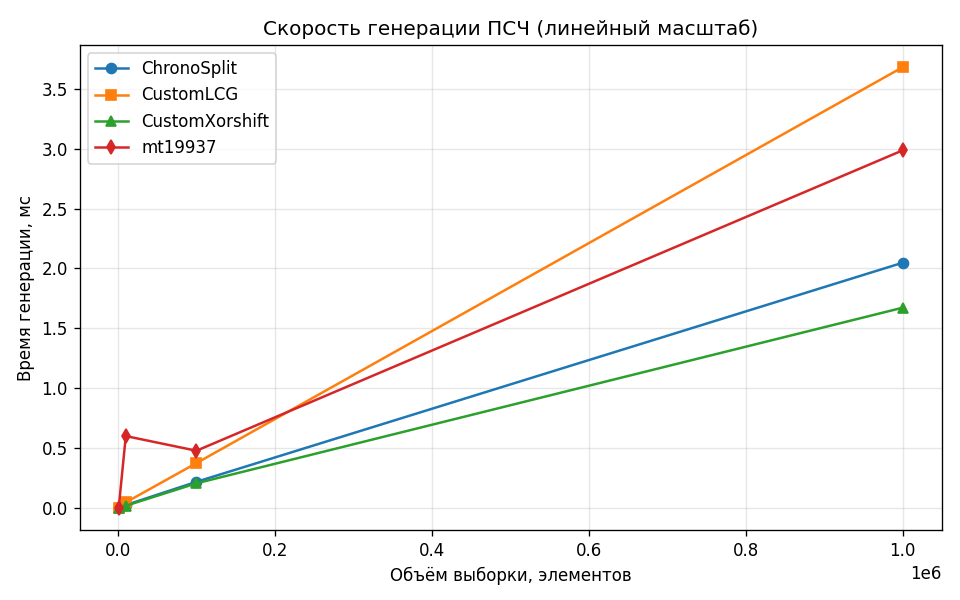
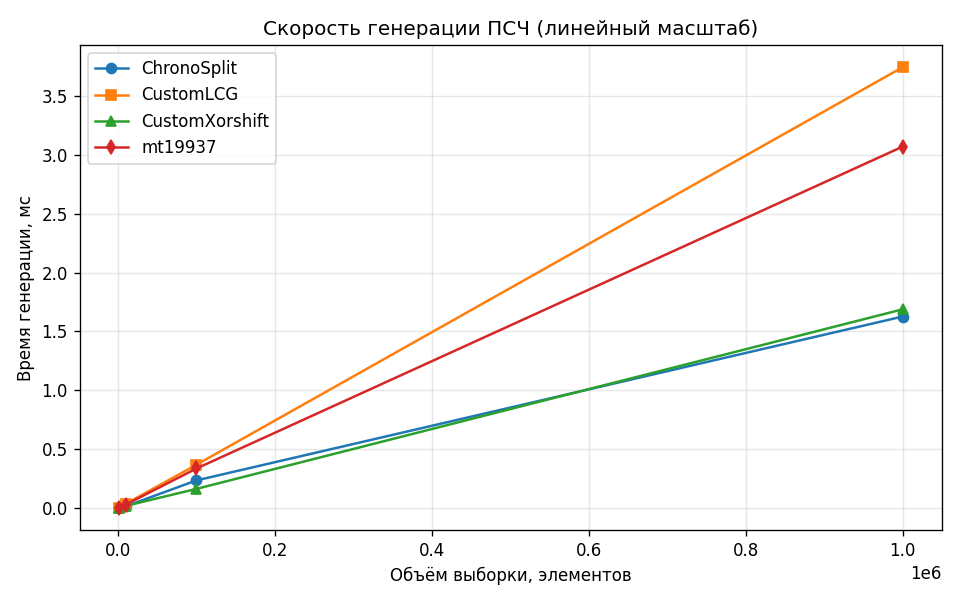
v1.02 finalniy final

diff --git a/main.cpp b/main.cpp
@@ -627,7 +627,7 @@ double measure_mt19937(uint64_t seed, long count, int repeats) {
  *
  * @param repeats сколько прогонов усреднить на каждый замер
  */
-void run_timing(int repeats = 10) {
+void run_timing(int repeats = 100) {
     const long sizes[] = {1000, 10000, 100000, 1000000};
     const int n_sizes = 4;
 

diff --git a/README.md b/README.md
@@ -1,114 +1,86 @@
-# Лабораторная работа: Алгоритмы сортировок
+# ЛР3 — Генераторы псевдослучайных чисел
 
-**Вариант 21** — массив авиарейсов, прибывающих в аэропорт.
+Лабораторная работа по дисциплине, посвящённой генерации и тестированию
+псевдослучайных чисел (ПСЧ). Реализованы **три собственных генератора ПСЧ**,
+проведена проверка выборок на равномерность (критерий χ²) и случайность
+(пять тестов NIST), а также измерена скорость генерации в сравнении со
+стандартным генератором языка `std::mt19937_64`.
 
-## Постановка задачи
+## Реализованные методы
 
-Реализовать на C++ три алгоритма сортировки массива объектов с
-многополевым сравнением, считать данные из CSV, замерить время работы на
-наборах разной размерности, сравнить с `std::sort` и построить графики.
+| Обозн. | Класс | Основа | Кратко |
+|--------|-------|--------|--------|
+| A | `ChronoSplit` | время + микшер splitmix64 | затравка из таймера в наносекундах, биты перемешиваются умножениями и сдвигами |
+| B | `CustomLCG` | линейный конгруэнтный генератор | `state = A·state + C mod 2⁶⁴`, наружу отдаются перемешанные старшие половины двух шагов |
+| C | `CustomXorshift` | xorshift128+ | состояние из двух 64-битных слов, период 2¹²⁸−1, собственные сдвиги a=23, b=17, c=26 |
 
-## Структура данных
+Все три генератора реализованы самостоятельно на C++ без использования
+стандартных библиотек ПСЧ (`std::mt19937_64` подключается только как эталон
+для сравнения скорости).
 
-Каждый рейс (`struct Flight`) описывается полями:
-- номер рейса (`flightNumber`),
-- авиакомпания (`airline`),
-- дата прилёта (`arrivalDate`, формат `YYYY-MM-DD`),
-- время прилёта по расписанию (`arrivalTime`, формат `HH:MM`),
-- число пассажиров на борту (`passengers`).
+## Что проверяется
 
-## Правила сравнения
+1. **Статистика выборок** — для каждой выборки считаются среднее, СКО и
+   коэффициент вариации; они сравниваются с теоретическими значениями для
+   равномерного распределения на `[0, RANGE)`.
+2. **Равномерность** — критерий χ² (диапазон делится на `BINS` интервалов,
+   статистика сравнивается с критическим значением при df = BINS−1).
+3. **Случайность** — пять тестов NIST SP 800-22: частотный (monobit), тест
+   серий (runs), блочный частотный (block frequency), тест пар бит (serial),
+   накопленные суммы (cumulative sums). p-value вычисляется через неполную
+   гамма-функцию / `erfc`.
+4. **Скорость** — замер времени генерации от 1 000 до 1 000 000 элементов
+   тремя методами и стандартным `std::mt19937_64`, построение графиков.
 
-Операторы `<`, `>`, `<=`, `>=` перегружены и реализованы через единый
-метод `compare`, который сравнивает поля в следующем приоритете:
+## Параметры эксперимента
 
-1. дата прилёта — по возрастанию,
-2. время прилёта — по возрастанию,
-3. название авиакомпании — по возрастанию (лексикографически),
-4. число пассажиров — **по убыванию**.
+Задаются константами в начале `main.cpp`:
 
-## Реализованные сортировки
-
-- **Сортировка пузырьком** (Bubble sort) с флагом ранней остановки.
-- **Шейкер** (Cocktail sort) — двунаправленный пузырёк.
-- **Быстрая сортировка** (Quick sort) — Hoare partition + median-of-three pivot.
-- **`std::sort`** из стандартной библиотеки (introsort) — для сравнения.
+| Параметр | Значение | Смысл |
+|----------|----------|-------|
+| `RANGE` | 10000 | диапазон значений `[0, RANGE)` (≥ 5000 по ТЗ) |
+| `N` | 1000 | элементов в одной выборке (≥ 1000 по ТЗ) |
+| `SAMPLES` | 20 | число выборок на метод (≥ 20 по ТЗ) |
+| `BINS` | 100 | число интервалов для χ² |
 
 ## Сборка и запуск
 
-Требуется g++ с поддержкой C++20 (тестировалось на MinGW-w64 / UCRT64 16.1.0).
+Требуется компилятор с поддержкой C++17.
 
 ```bash
-.\build.bat
-.\sort_lab.exe
+g++ -O2 -std=c++17 main.cpp -o prng
+./prng
 ```
 
-Программа генерирует датасеты размерности 100, 200, 500, 1000, 2000, 5000,
-10000, 20000, 50000, 100000, сохраняет их в `data/dataset_<n>.csv`,
-читает обратно и замеряет время каждой сортировки усреднением по 3
-прогонам. Результаты пишутся в `data/timings.csv`.
+При запуске программа:
+- печатает статистику и значение χ² по каждой из 20 выборок для всех трёх методов;
+- печатает сводную таблицу по пунктам 3–4 и теоретические ориентиры;
+- прогоняет пять тестов NIST для каждого метода (вердикт PASS / FAIL по порогу α = 0.01);
+- замеряет скорость генерации и сохраняет результаты в `data/timing.csv`.
 
-Для построения графиков:
-```bash
-pip install matplotlib pandas
-python scripts/plot_timings.py
+> Строка `system("chcp 65001 > nul")` нужна только для корректного вывода
+> кириллицы в консоль Windows и на Linux/macOS безвредна.
+
+## Структура репозитория
+
+```
+.
+├── main.cpp          # весь код: генераторы, статистика, χ², тесты NIST, замер времени
+├── README.md         # этот файл
+├── data/
+│   └── timing.csv    # результаты замера скорости (создаётся при запуске)
+└── timing_log.png    # график сравнения скоростей (лог-лог масштаб)
 ```
 
-## Структура проекта
-- sort-flight/
-- -  main.cpp              — весь исходный код
-- - build.bat             — сборка одной командой
-- - Doxyfile              — конфигурация документации
-- - data/
-- - - timings.csv       — результаты замеров
-- - - plot_linear.png   — график (линейная шкала)
-- - - plot_log.png      — график (log-log шкала)
-- - scripts/
-- - - plot_timings.py   — построение графиков
-- - docs/html/            — Doxygen-документация 
+## Краткие результаты
 
-## Результаты
+- Все три генератора дают среднее ≈ 5000, СКО ≈ 2887 и коэффициент вариации
+  ≈ 57.7 %, что совпадает с теорией для равномерного распределения на `[0, 10000)`.
+- По критерию χ² подавляющее большинство выборок признаны равномерными
+  (ChronoSplit — 20/20, CustomLCG и CustomXorshift — по 19/20; единичные
+  превышения порога ожидаемы при уровне значимости 0.05).
+- Все три метода прошли все пять тестов NIST (все p-value ≥ 0.01).
+- Собственные методы по скорости сопоставимы со стандартным `mt19937_64`
+  и не уступают ему; самыми быстрыми оказались ChronoSplit и CustomXorshift
+  (см. `timing_log.png`).
 
-### Линейная шкала
-
-![Linear](data/plot_linear.png)
-
-На линейном масштабе виден квадратичный взрыв пузырька и шейкера: на
-50000 элементов они занимают около 75 секунд, тогда как quick и std
-лежат фактически на оси X. При маленьких объемах данных разница между сортировками минимальна
-
-### Логарифмическая шкала
-
-![Log-Log](data/plot_log.png)
-
-В log-log координатах степенные зависимости превращаются в прямые с
-наклоном, равным показателю степени. Видно две пары почти параллельных
-прямых: bubble/shaker с наклоном примерно 2 (O(n²)) и quick/std с наклоном примерно 1.1
-(O(n log n)). std::sort стабильно быстрее учебного quick на 20–40% —
-за счёт переключения на insertion sort на малых подмассивах и
-страховки от плохого pivot в виде heapsort (introsort).
-
-## Выводы
-
-- Пузырёк и шейкер ведут себя практически одинаково на случайных данных. Преимущество шейкера проявляется на
-  «почти отсортированных» массивах, чего в нашем эксперименте не было.
-- На размерах до ~500 разница между алгоритмами незначительна — на
-  малых данных можно использовать любой.
-- Начиная с ~5000 элементов пузырёк становится практически непригоден:
-  на 50000 уже ~75 секунд против ~40 миллисекунд у `std::sort` —
-  разница в ~2000 раз.
-- Эмпирические измерения подтверждают теоретические оценки сложности:
-  при росте размера в 10 раз пузырёк замедляется примерно в 100 раз
-  (n²), а std::sort — примерно в 12 раз (n log n).
-- В реальном продакшене стоит использовать `std::sort` — он
-  гарантированно O(n log n) в худшем случае (учебный quick на
-  специально подобранных входах вырождается в O(n²)) и стабильно
-  быстрее на практике.
-
-## Документация
-
-Документация к коду сгенерирована через Doxygen. Для просмотра:
-```bash
-doxygen Doxyfile
-start docs/html/index.html
-```